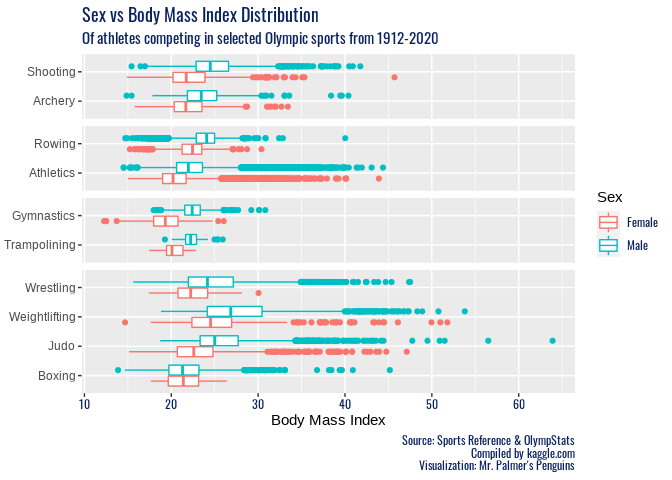
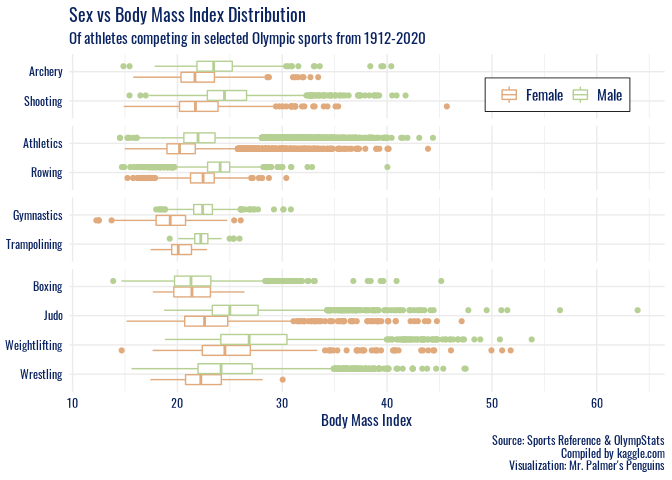
finalized q1 plot1

diff --git a/README.md b/README.md
@@ -1,17 +1,6 @@
 Project title
 ================
-by Team name
-
-    ## ── Attaching packages ─────────────────────────────────────── tidyverse 1.3.1 ──
-
-    ## ✓ ggplot2 3.3.5     ✓ purrr   0.3.4
-    ## ✓ tibble  3.1.4     ✓ dplyr   1.0.7
-    ## ✓ tidyr   1.1.3     ✓ stringr 1.4.0
-    ## ✓ readr   2.0.1     ✓ forcats 0.5.1
-
-    ## ── Conflicts ────────────────────────────────────────── tidyverse_conflicts() ──
-    ## x dplyr::filter() masks stats::filter()
-    ## x dplyr::lag()    masks stats::lag()
+by Mr. Palmer’s Penguins
 
     ## Loading required package: sysfonts
 
@@ -102,7 +91,7 @@ olympics <- olympics %>%
 # rowing, athletics (between coxswains in rowing, then sprinting vs throwing in althetics, no surprise that these are the top variables!)
 
 # create helper vector of these sports
-chosen_sports <- c("Wrestling", "Weightlifting", "Judo", "Boxing", "Gymnastics", "Trampolining", "Shooting", "Archery", "Rowing", "Athletics")
+chosen_sports <- c("Boxing", "Judo", "Weightlifting", "Wrestling", "Gymnastics", "Trampolining", "Archery", "Shooting", "Athletics", "Rowing")
 
 # load Olympic font
 font_add_google(name = "Oswald")
@@ -112,17 +101,20 @@ showtext_auto()
 I found a citation for the Tokyo 2020 Olympics logo font
 [here](https://www.reddit.com/r/identifythisfont/comments/4ig8ua/font_used_on_the_tokyo_2020_logo/)
 and was pointed to an open-source alternative
-[here.](https://graphicdesign.stackexchange.com/questions/7178/is-there-a-din-font-free-alternative).
+[here](https://graphicdesign.stackexchange.com/questions/7178/is-there-a-din-font-free-alternative).
 I also got the hex code manually from that logo.
+
+I chose the hex codes for my favorite gender color mapping from
+Telegraph 2018 [here](https://blog.datawrapper.de/gendercolor/).
 
 ``` r
 # try plotting again with just these sports, remember to keep each athlete only once!
 olympics %>%
   filter(sport %in% chosen_sports) %>%
   mutate(category = case_when(
-    sport %in% c("Wrestling", "Weightlifting", "Judo", "Boxing") ~ "weightclass",
+    sport %in% c("Boxing", "Judo", "Weightlifting", "Wrestling") ~ "weightclass",
     sport %in% c("Gymnastics", "Trampolining") ~ "lightweight",
-    sport %in% c("Shooting", "Archery") ~ "coordination",
+    sport %in% c("Archery", "Shooting") ~ "coordination",
     TRUE ~ "diverse"
   )) %>%
   distinct(id, .keep_all = TRUE) %>%
@@ -136,17 +128,24 @@ ggplot(mapping = aes(y = sport, x = BMI, color = sex)) +
        title = "Sex vs Body Mass Index Distribution",
        subtitle = "Of athletes competing in selected Olympic sports from 1912-2020",,
        caption = "Source: Sports Reference & OlympStats\nCompiled by kaggle.com\nVisualization: Mr. Palmer's Penguins") +
+  scale_color_manual(values = c("#E1AA7D", "#B6D094")) +
   facet_grid(category ~ ., scales = "free_y", space = "free") +
+  theme_minimal() +
   theme(strip.background = element_blank(),
         strip.text.y = element_blank(),
         plot.title = element_text(family = "Oswald", color = "#092260"),
         plot.caption = element_text(family = "Oswald", color = "#092260"),
         plot.subtitle = element_text(family = "Oswald", color = "#092260"),
         axis.text.x = element_text(family = "Oswald", color = "#092260"),
-        legend.text = element_text(family = "Oswald", color = "#092260"))
+        axis.title.x = element_text(family = "Oswald", color = "#092260"),
+        axis.text.y = element_text(family = "Oswald", color = "#092260"),
+        legend.text = element_text(family = "Oswald", color = "#092260", size = 11),
+        legend.title = element_blank(),
+        legend.position = c(0.82, 0.88),
+        legend.direction = "horizontal",
+        legend.background = element_rect(size = 0.3),
+        legend.key.size = unit(0.5, "cm"))
 ```
-
-    ## Warning: Removed 14145 rows containing non-finite values (stat_boxplot).
 
 ![](README_files/figure-gfm/fonts-and-plot-one-1.png)<!-- -->
 
